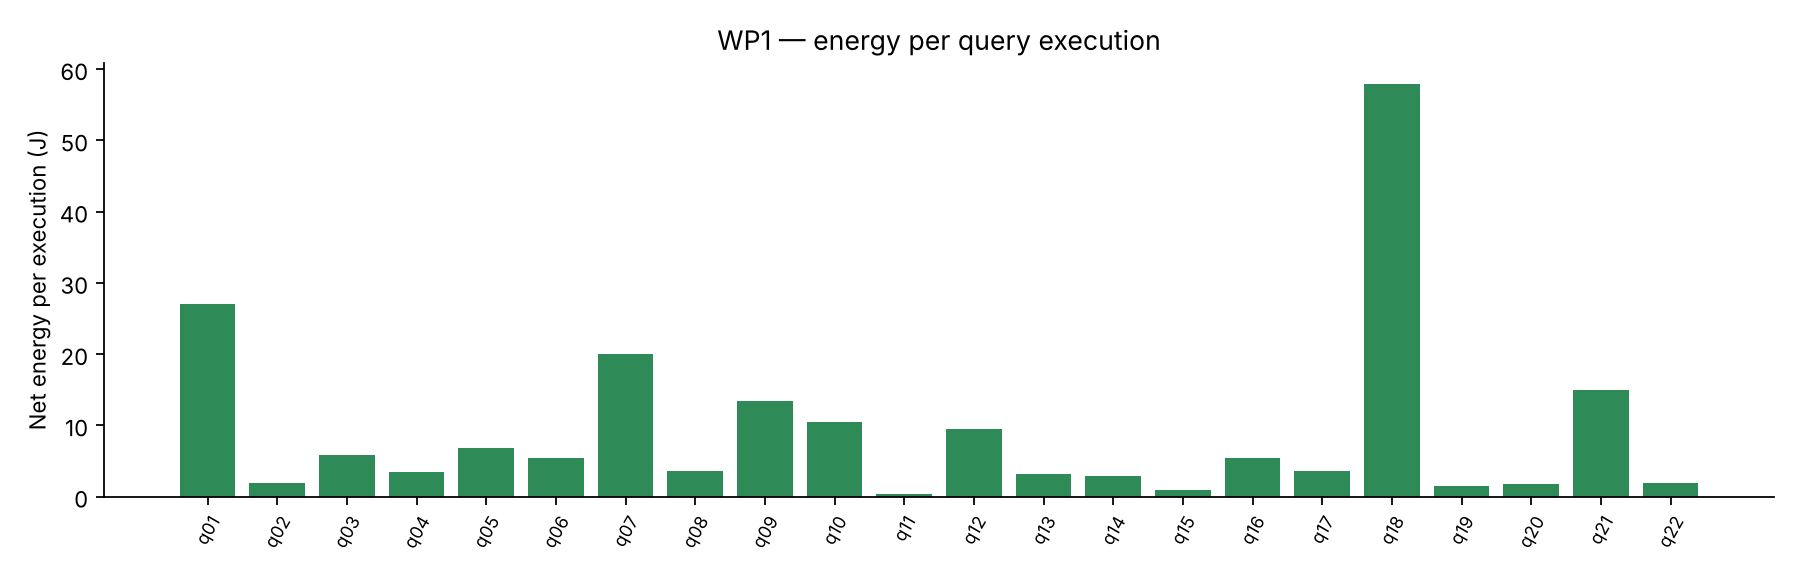
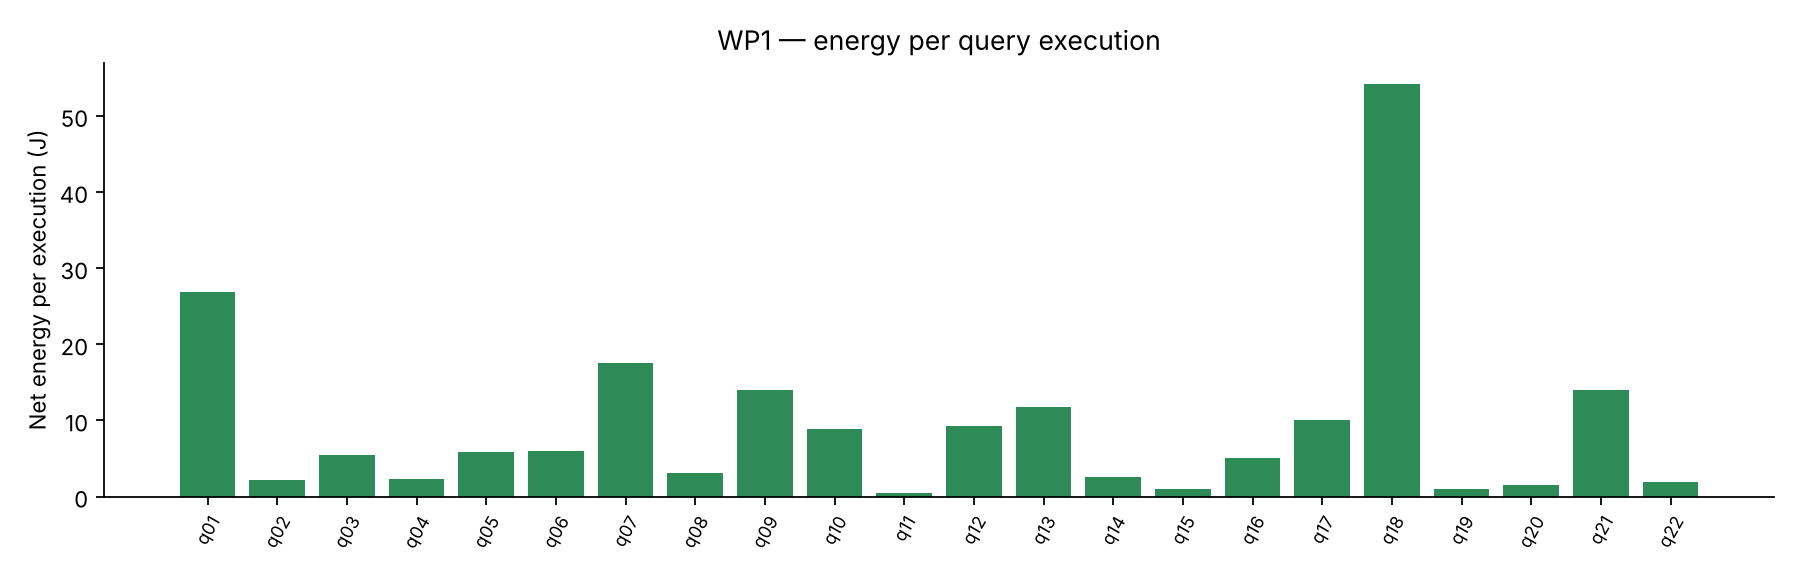
lab: Balanced WP1 baseline (3 passes); analysis picks the standard mode; results-section draft
Claude-Session: https://claude.ai/code/session_013eyfQteHzXj9KHimYU5FZa

diff --git a/backend/scripts/analyse_lab.py b/backend/scripts/analyse_lab.py
@@ -79,6 +79,11 @@ def wp1(rows, out: Path, figs: Path):  # type: ignore[no-untyped-def]
     rs = [r for r in rows if r["work_package"] == "wp1"]
     if not rs:
         return None
+    # The baseline is the standard mode (plan=balanced) when present; other labelled runs are reported separately.
+    labels = sorted({r["condition"].split("plan=")[-1] if "plan=" in r["condition"] else "(unlabelled: best-efficiency on 3 Nov 2026)" for r in rs})
+    std = "balanced" if "balanced" in labels else labels[0]
+    rs = [r for r in rs if (r["condition"].split("plan=")[-1] if "plan=" in r["condition"] else labels[0]) == std]
+    print(f"  WP1 baseline mode: {std} (others present: {[l for l in labels if l != std]})")
     qs = sorted({r["query_id"] for r in rs})
     med = per_query_median(rs, "_median"); jpe = per_query_median(rs, "_jpe"); w = per_query_median(rs, "_w")
     ex = per_query_median(rs, "_exec"); par = per_query_median(rs, "_par") if any(r["_par"] is not None for r in rs) else {}
@@ -95,7 +100,7 @@ def wp1(rows, out: Path, figs: Path):  # type: ignore[no-untyped-def]
         cw = csv.writer(fh); cw.writerow(hdr); cw.writerows(table)
     total_ms = sum(med[q] for q in qs); total_j = sum(jpe[q] for q in qs if jpe.get(q) is not None)
     low = [q for q in qs if w.get(q) is not None and w[q] < 10]; high = [q for q in qs if w.get(q) is not None and w[q] >= 10]
-    md = ["# WP1 — baseline (TPC-H-derived, SF 1, hot cache; Windows power mode as recorded with the run — the 3 Nov 2026 runs were under Best Power Efficiency)", "",
+    md = [f"# WP1 — baseline (TPC-H-derived, SF 1, hot cache, Windows power mode: {std})", "",
           md_table(hdr, table), "",
           f"**One pass over the 22 queries:** {total_ms / 1000:.1f} s of query time, {total_j:.0f} J net "
           f"(TPC-Energy-style energy per query set), {total_j / (total_ms / 1000):.1f} W average net power.", "",

diff --git a/docs/lab/wp1_baseline.md b/docs/lab/wp1_baseline.md
@@ -1,30 +1,30 @@
-# WP1 — baseline (TPC-H-derived, SF 1, hot cache; Windows power mode as recorded with the run — the 3 Nov 2026 runs were under Best Power Efficiency)
+# WP1 — baseline (TPC-H-derived, SF 1, hot cache, Windows power mode: balanced)
 
 | query | passes | median ms | EXPLAIN exec ms | client/exec | mean W | net J / exec | J per 1000 rows | rows | parallel workers |
 |---|---|---|---|---|---|---|---|---|---|
-| q01 | 3 | 2.06e+03 | 1.46e+03 | 1.41 | 14.9 | 27 | 6.75e+03 | 4 |  |
-| q02 | 3 | 457 | 223 | 2.05 | 7.89 | 1.85 | 18.5 | 100 |  |
-| q03 | 3 | 444 | 365 | 1.22 | 16.7 | 5.83 | 583 | 10 |  |
-| q04 | 3 | 177 | 186 | 0.952 | 22.4 | 3.46 | 692 | 5 |  |
-| q05 | 3 | 356 | 385 | 0.923 | 21 | 6.85 | 1.37e+03 | 5 |  |
-| q06 | 3 | 431 | 274 | 1.57 | 16.5 | 5.4 | 5.4e+03 | 1 |  |
-| q07 | 3 | 996 | 1e+03 | 0.993 | 19.9 | 20 | 5e+03 | 4 |  |
-| q08 | 3 | 203 | 216 | 0.943 | 19.7 | 3.61 | 1.81e+03 | 2 |  |
-| q09 | 3 | 863 | 798 | 1.08 | 16.9 | 13.4 | 76.5 | 175 |  |
-| q10 | 3 | 715 | 533 | 1.34 | 17.1 | 10.5 | 526 | 20 |  |
-| q11 | 3 | 185 | 92.5 | 2 | 5.4 | 0.322 | 0.307 | 1048 |  |
-| q12 | 3 | 697 | 521 | 1.34 | 16.4 | 9.48 | 4.74e+03 | 2 |  |
-| q13 | 3 | 3.98e+03 | 1.29e+03 | 3.09 | 4.16 | 3.11 | 74 | 42 |  |
-| q14 | 3 | 161 | 152 | 1.06 | 20.5 | 2.84 | 2.84e+03 | 1 |  |
-| q15 | 3 | 522 | 310 | 1.69 | 5.4 | 0.96 | 960 | 1 |  |
-| q16 | 3 | 459 | 271 | 1.69 | 15.1 | 5.36 | 0.293 | 18314 |  |
-| q17 | 3 | 2.07e+03 | 1.09e+03 | 1.89 | 5.09 | 3.57 | 3.57e+03 | 1 |  |
-| q18 | 3 | 5.71e+03 | 2.88e+03 | 1.98 | 12 | 57.9 | 1.02e+03 | 57 |  |
-| q19 | 3 | 76.1 | 73.4 | 1.04 | 20.4 | 1.46 | 1.46e+03 | 1 |  |
-| q20 | 3 | 1.34e+03 | 537 | 2.49 | 4.83 | 1.79 | 9.61 | 186 |  |
-| q21 | 3 | 884 | 824 | 1.07 | 17.9 | 15 | 150 | 100 |  |
-| q22 | 3 | 159 | 104 | 1.52 | 15.3 | 1.96 | 280 | 7 |  |
+| q01 | 3 | 2.42e+03 | 2.02e+03 | 1.2 | 13.1 | 26.8 | 6.71e+03 | 4 | 2 |
+| q02 | 3 | 395 | 196 | 2.01 | 10.8 | 2.2 | 22 | 100 | 2 |
+| q03 | 3 | 565 | 382 | 1.48 | 13.7 | 5.53 | 553 | 10 | 2 |
+| q04 | 3 | 224 | 181 | 1.24 | 14.5 | 2.34 | 468 | 5 | 2 |
+| q05 | 3 | 347 | 375 | 0.927 | 22.5 | 5.89 | 1.18e+03 | 5 | 2 |
+| q06 | 3 | 382 | 286 | 1.34 | 19.8 | 5.98 | 5.98e+03 | 1 | 2 |
+| q07 | 3 | 1.07e+03 | 976 | 1.1 | 18.8 | 17.5 | 4.38e+03 | 4 | 2 |
+| q08 | 3 | 194 | 201 | 0.963 | 22.9 | 3.14 | 1.57e+03 | 2 | 2 |
+| q09 | 3 | 871 | 785 | 1.11 | 17.6 | 14 | 80.2 | 175 | 2 |
+| q10 | 3 | 913 | 517 | 1.77 | 13.5 | 8.9 | 445 | 20 | 2 |
+| q11 | 3 | 160 | 92.3 | 1.73 | 7.4 | 0.482 | 0.46 | 1048 | 0 |
+| q12 | 3 | 644 | 507 | 1.27 | 18.4 | 9.25 | 4.63e+03 | 2 | 2 |
+| q13 | 3 | 3.26e+03 | 1.17e+03 | 2.78 | 7.46 | 11.7 | 279 | 42 | 0 |
+| q14 | 3 | 179 | 145 | 1.23 | 17.6 | 2.61 | 2.61e+03 | 1 | 2 |
+| q15 | 3 | 450 | 258 | 1.75 | 6.94 | 0.977 | 977 | 1 | 0 |
+| q16 | 3 | 440 | 279 | 1.58 | 15.9 | 5.08 | 0.277 | 18314 | 2 |
+| q17 | 3 | 1.78e+03 | 978 | 1.82 | 9.76 | 10.1 | 1.01e+04 | 1 | 2 |
+| q18 | 3 | 5.16e+03 | 4.37e+03 | 1.18 | 13 | 54.2 | 951 | 57 | 2 |
+| q19 | 3 | 98.9 | 71.3 | 1.39 | 15.5 | 1.06 | 1.06e+03 | 1 | 2 |
+| q20 | 3 | 1.23e+03 | 501 | 2.46 | 5.82 | 1.54 | 8.29 | 186 | 0 |
+| q21 | 3 | 841 | 780 | 1.08 | 18.7 | 14.1 | 141 | 100 | 2 |
+| q22 | 3 | 196 | 153 | 1.28 | 13.2 | 1.86 | 266 | 7 | 2 |
 
-**One pass over the 22 queries:** 23.0 s of query time, 202 J net (TPC-Energy-style energy per query set), 8.8 W average net power.
+**One pass over the 22 queries:** 21.8 s of query time, 205 J net (TPC-Energy-style energy per query set), 9.4 W average net power.
 
-**Power groups:** 16 queries at ≥10 W mean (q01, q03, q04, q05, q06, q07, q08, q09, q10, q12, q14, q16, q18, q19, q21, q22); 6 queries below 10 W (q02, q11, q13, q15, q17, q20). The low-power group's client time exceeds its own EXPLAIN ANALYZE time by 2.16× on average versus 1.23× for the rest.
+**Power groups:** 17 queries at ≥10 W mean (q01, q02, q03, q04, q05, q06, q07, q08, q09, q10, q12, q14, q16, q18, q19, q21, q22); 5 queries below 10 W (q11, q13, q15, q17, q20). The low-power group's client time exceeds its own EXPLAIN ANALYZE time by 2.07× on average versus 1.28× for the rest.

diff --git a/docs/lab/results-section-draft.md b/docs/lab/results-section-draft.md
@@ -1,0 +1,7 @@
+# Draft: interim-report section 5 — Laboratory experiments on a TPC-H-derived workload
+
+(Text as sent to James on 3 Nov 2026; 5.3 updated with the Balanced baseline. Figures: 5.1 = wp1_mean_watts.png, 5.2 = wp3_energy_ratio.png.)
+
+## 5.3 WP1 — baseline, and an unexpected split
+
+Three randomised passes over the 22 queries under the standard *Balanced* power mode gave a stable baseline: one pass is 21.8 s of query time and 205 J of net energy, 9.4 W above the idle floor on average. The queries fell into two groups (Figure 5.1). Seventeen ran at 13–23 W with client time close to their own `EXPLAIN ANALYZE` time (1.28× on average). Five — Q11, Q13, Q15, Q17 and Q20 — ran at 6–10 W and took 2.07× longer than their `EXPLAIN ANALYZE`. Those five are exactly the queries whose plans PostgreSQL cannot parallelise (correlated subqueries, the Q15 view, the Q13 `NOT LIKE` outer join): a single-threaded backend was evidently being run on the processor's efficiency cores at low frequency, while parallel plans got the performance cores. An earlier set of three passes made before I had noticed the power-mode setting, under *Best Power Efficiency*, gave 23.0 s and 202 J per pass; the serial group was 14 % slower and used 37 % less energy there, and Q2 joined it. WP3 tests whether the mode is the cause.

diff --git a/docs/lab/summary.md b/docs/lab/summary.md
@@ -8,9 +8,9 @@
 
 ## WP1 baseline
 
-- one pass: 23.0 s, 202 J net
-- ≥10 W group: q01, q03, q04, q05, q06, q07, q08, q09, q10, q12, q14, q16, q18, q19, q21, q22
-- <10 W group: q02, q11, q13, q15, q17, q20
+- one pass: 21.8 s, 205 J net
+- ≥10 W group: q01, q02, q03, q04, q05, q06, q07, q08, q09, q10, q12, q14, q16, q18, q19, q21, q22
+- <10 W group: q11, q13, q15, q17, q20
 
 ## WP3 power modes (geomean vs reference)
 
@@ -18,7 +18,3 @@
 - best-performance: time 0.743, energy 1.227
 
 ## WP4: 8 complex queries analysed
-
-## WP5
-
-See `wp5_optimised.md` — 12/16 benchmarked; c02 NOT IN→NOT EXISTS 330× under guidance; three correct-but-slower cases; time/energy divergence in both directions.
